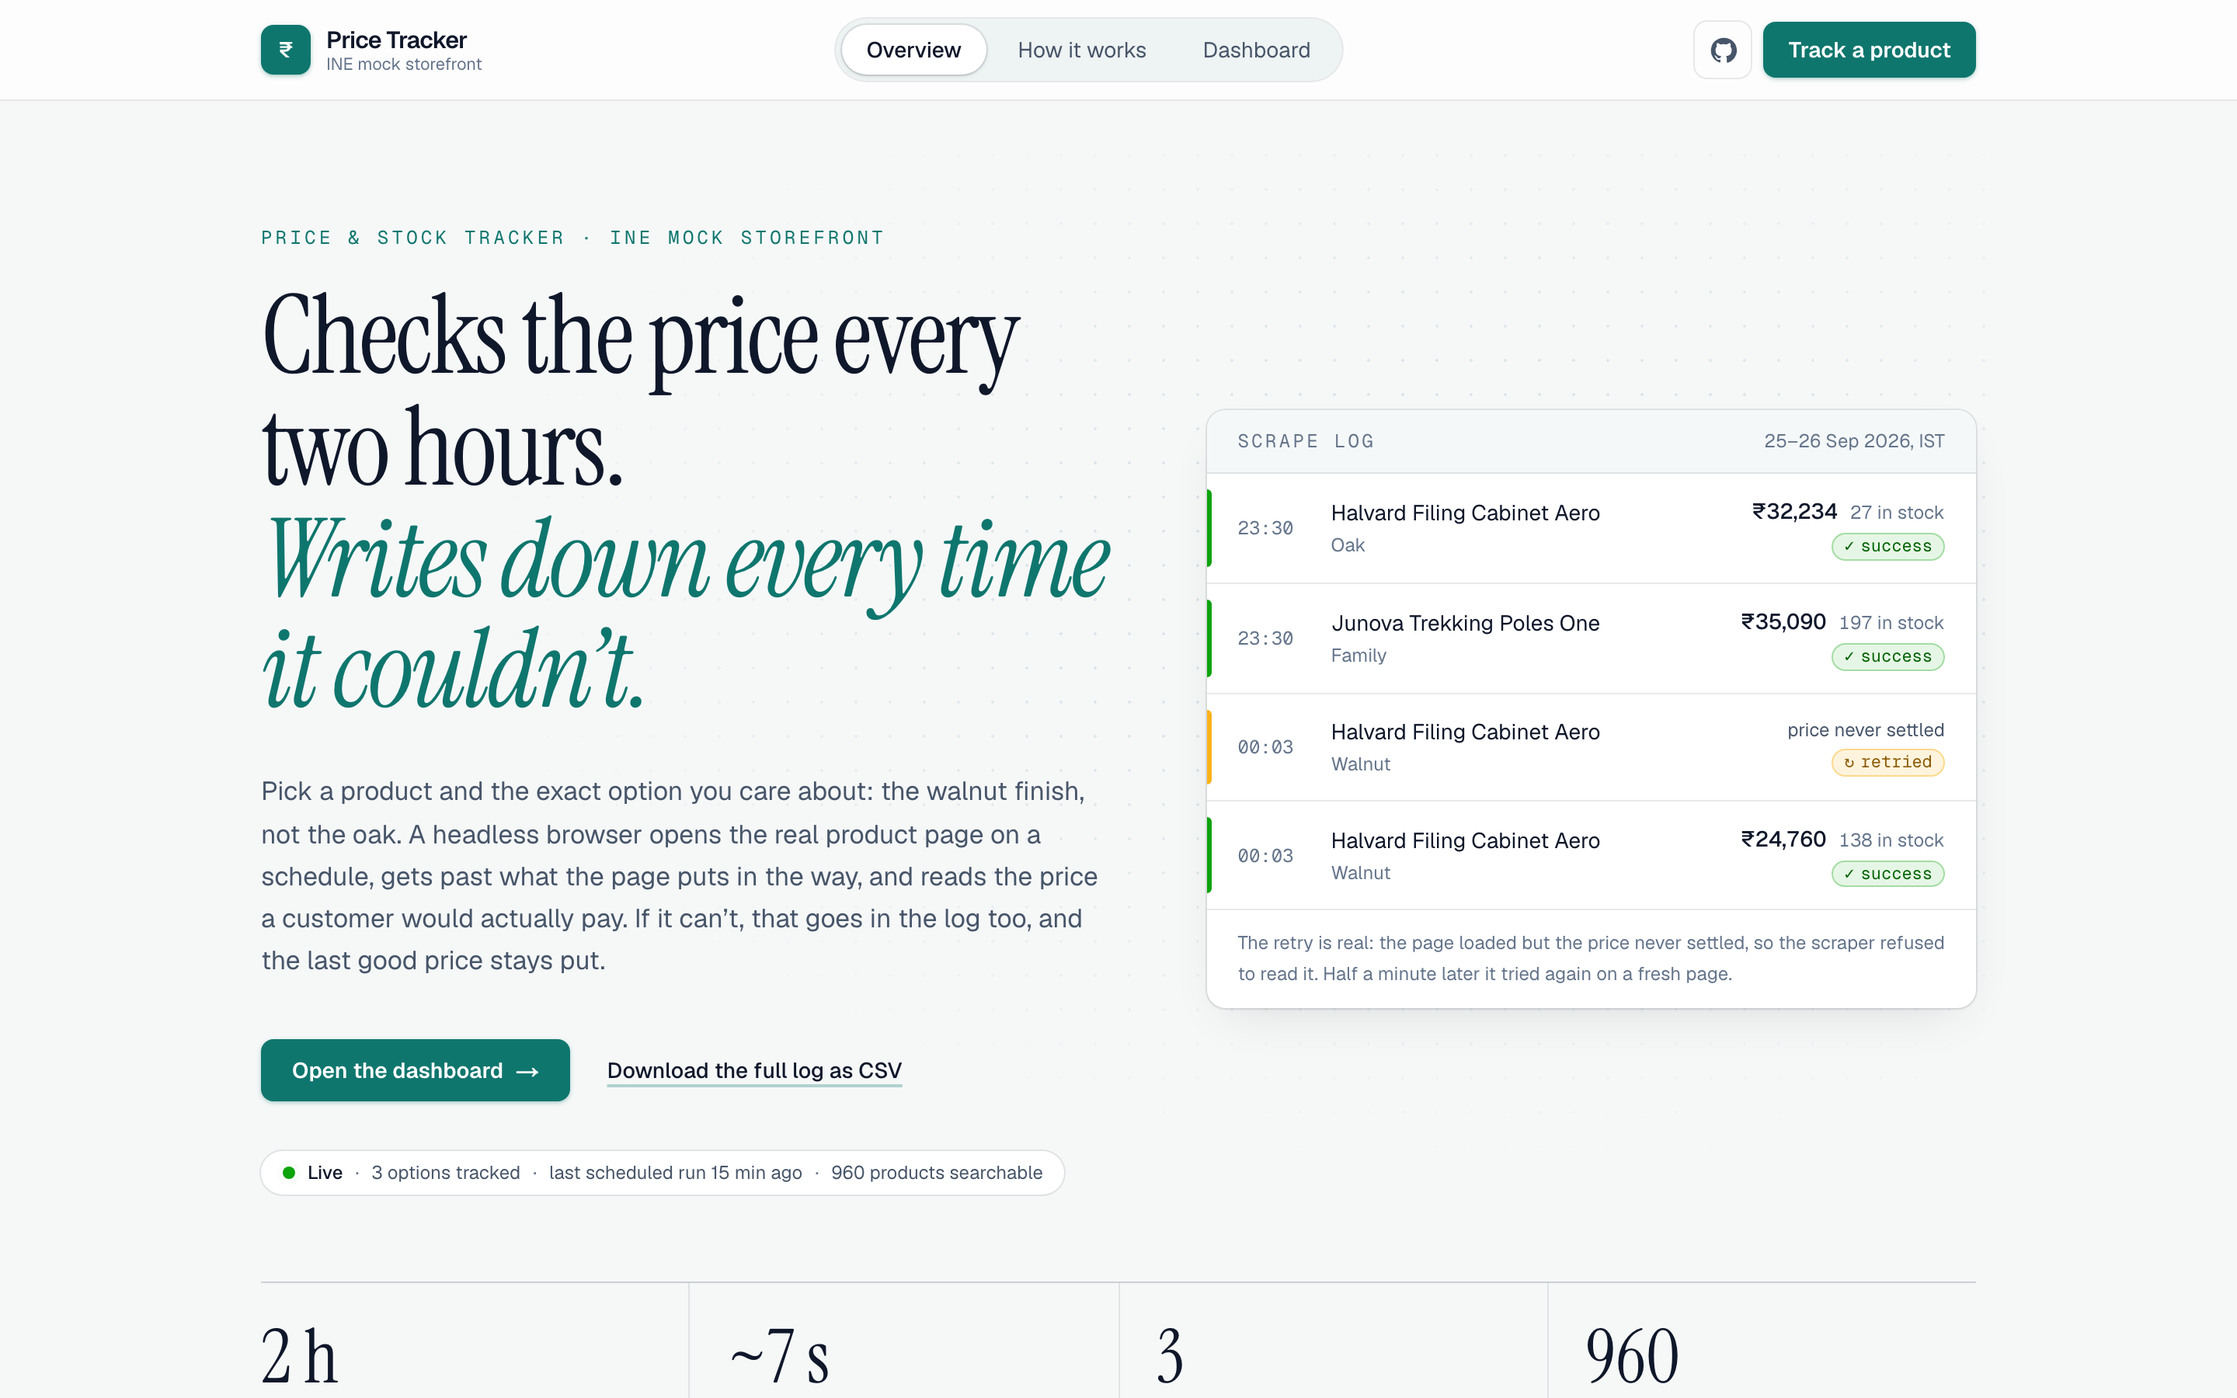
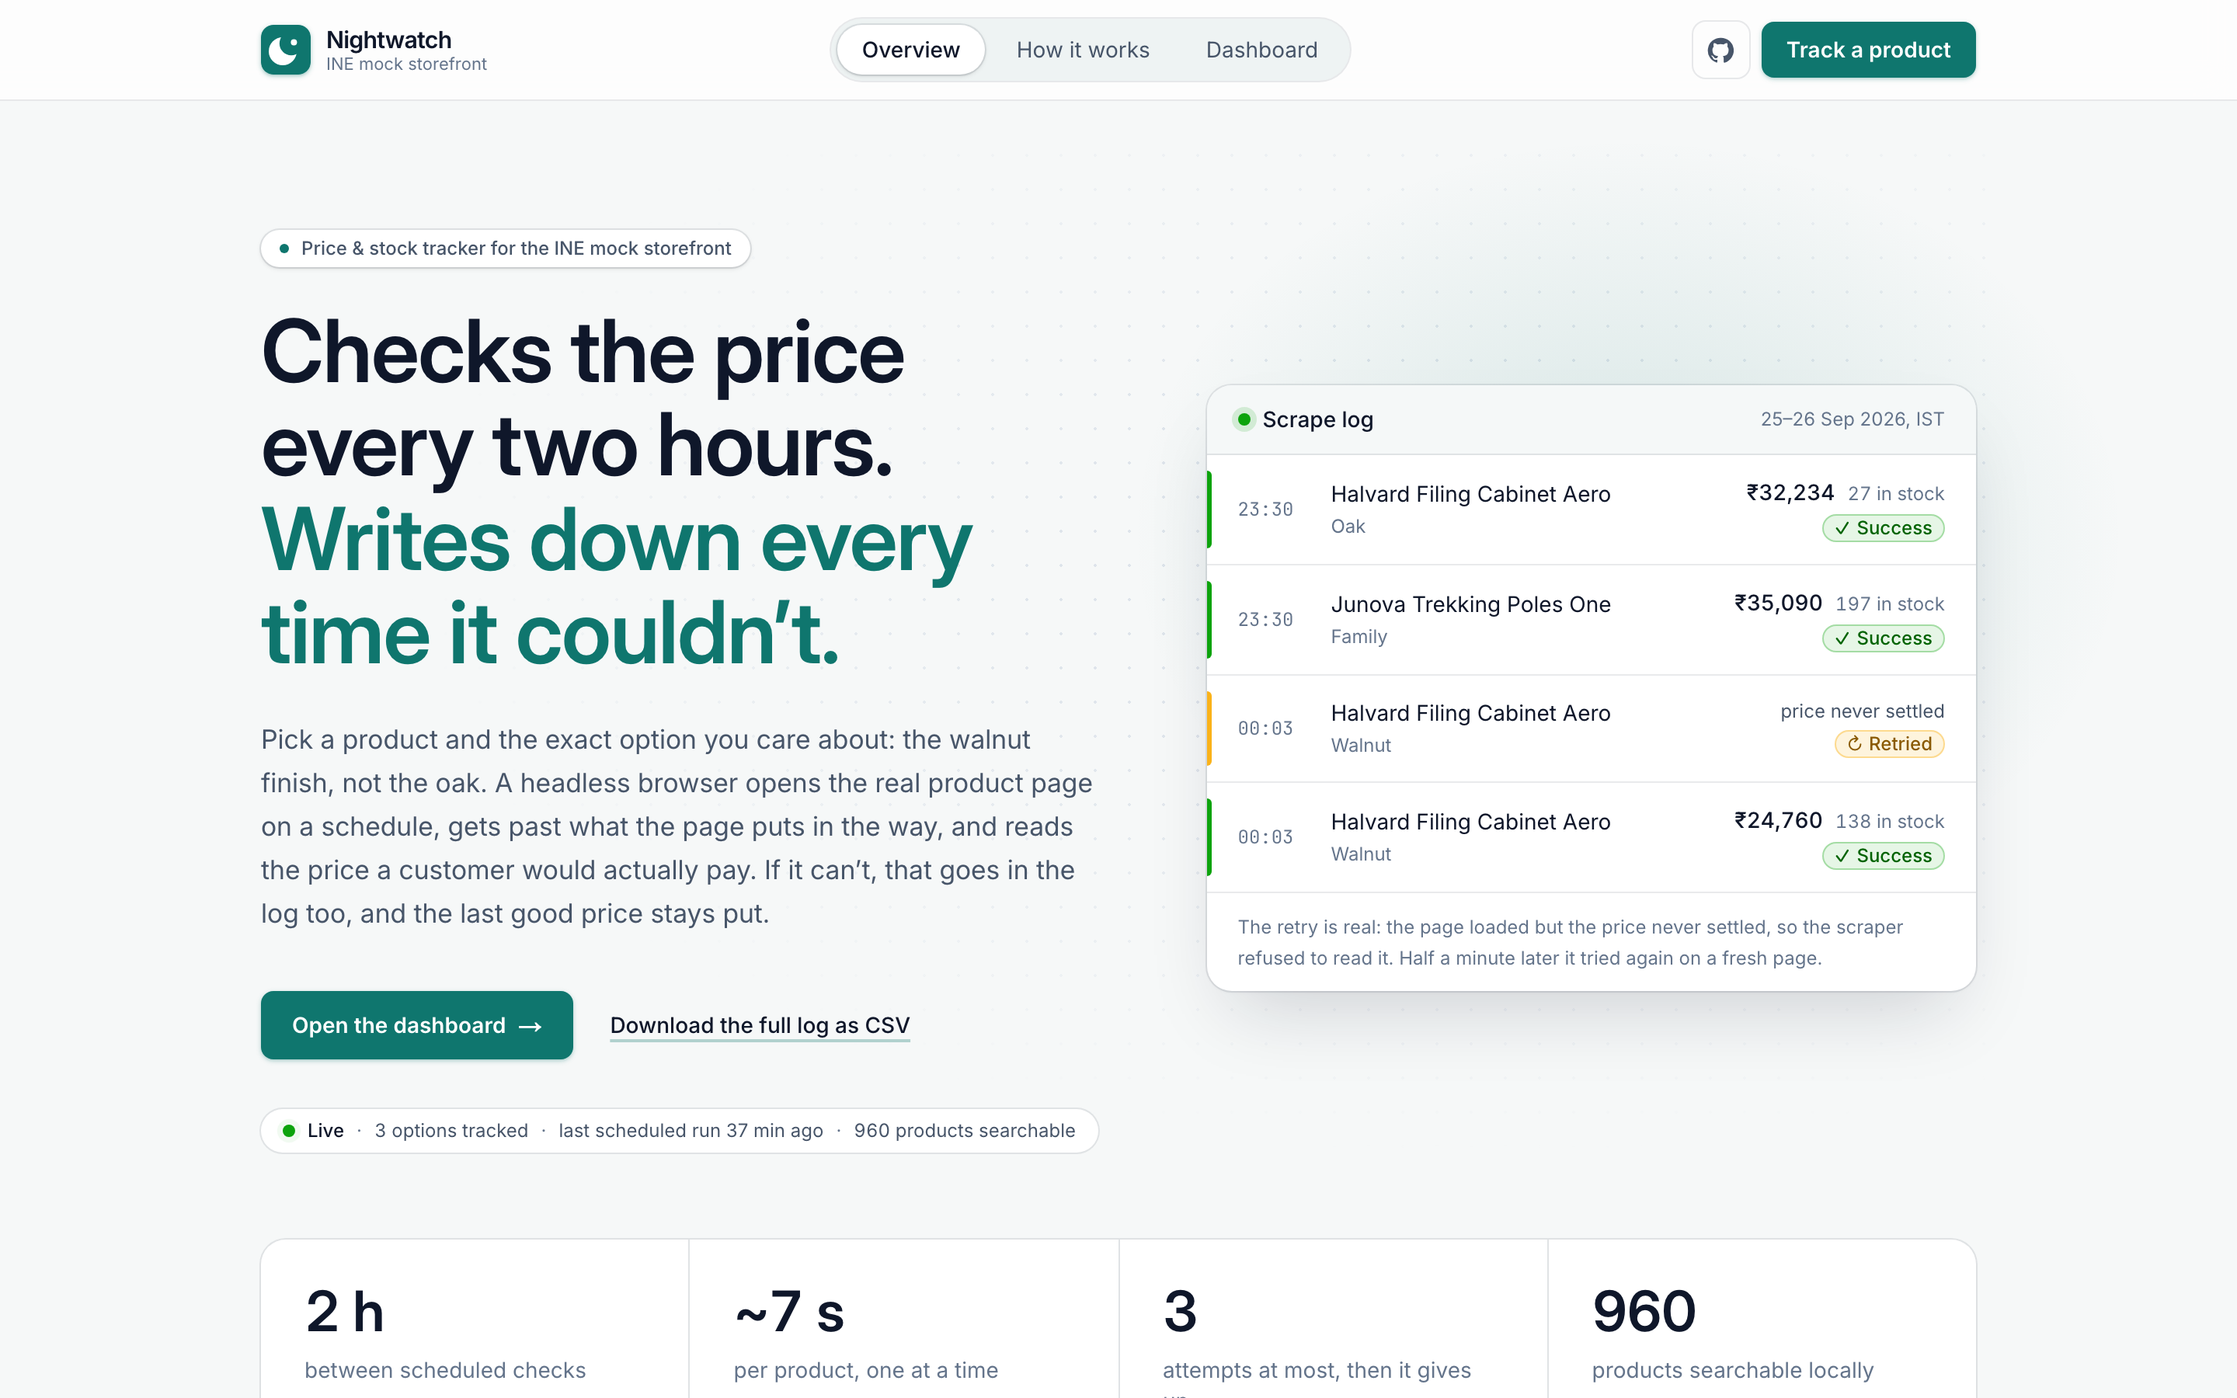
Update docs for 10-min keep-awake and refresh landing screenshot
- Warm-up ping every 10 min + UptimeRobot backup (README, api, architecture, decision)
- Design note: add the Render idle-sleep and SIGTERM mid-batch fixes
- Recapture landing.png from the live site
- Tick verified items in task.md

diff --git a/docs/task.md b/docs/task.md
@@ -54,9 +54,9 @@ Build in vertical slices instead of completing the frontend first:
 
 ## 5. Phase 2 — Supabase Database
 
-- [ ] Create Supabase project.
+- [x] Create Supabase project.
 - [x] Write `backend/db/schema.sql` from `database.md` §9 and run it.
-- [ ] Connect via **session pooler** string (`DATABASE_URL`).
+- [x] Connect via **session pooler** string (`DATABASE_URL`).
 - [x] Test success transaction (attempt + observation + current state).
 - [x] Test failed attempt leaves current state unchanged.
 - [x] Verify CHECK blocks price on non-success attempts.
@@ -136,20 +136,21 @@ Build in vertical slices instead of completing the frontend first:
 
 ### Render
 
-- [ ] Web service, root `backend/`.
-- [ ] Build: `npm install && npx playwright install --with-deps chromium`.
-- [ ] Start: `npm start`.
-- [ ] Env vars set.
-- [ ] `/api/health` OK; catalog synced 960/960.
-- [ ] Manual scrape succeeds on Render (check memory in Render metrics).
+- [x] Web service, root `backend/`.
+- [x] Build: `npm install && npx playwright install --with-deps chromium`.
+- [x] Start: `npm start`.
+- [x] Env vars set.
+- [x] `/api/health` OK; catalog synced 960/960.
+- [x] Manual scrape succeeds on Render (check memory in Render metrics).
 
 ### cron-job.org
 
-- [ ] Warm-up job: `GET /api/health` at `55 1-23/2 * * *` (5 min before each scrape).
-- [ ] Scrape job: `POST https://<render>.onrender.com/api/scrape/run`, header `Authorization: Bearer …`, `0 */2 * * *`.
+- [x] Warm-up job: `GET /api/health` every 10 minutes (was `55 1-23/2 * * *`; Render still slept every ~15 min, so it now never idles).
+- [x] Backup monitor: UptimeRobot on `/api/health` every 5 minutes with email alerts.
+- [x] Scrape job: `POST https://<render>.onrender.com/api/scrape/run`, header `Authorization: Bearer …`, `0 */2 * * *`.
 - [ ] Enable failure notifications on both jobs.
-- [ ] Trigger once manually; confirm `202` and rows in `scrape_runs` / `scrape_attempts`.
-- [ ] Track 2–3 products so unattended history starts accumulating.
+- [x] Trigger once manually; confirm `202` and rows in `scrape_runs` / `scrape_attempts`.
+- [x] Track 2–3 products so unattended history starts accumulating.
 
 ## 11. Phase 8 — Frontend (Next.js)
 
@@ -177,18 +178,18 @@ Read `frontend/AGENTS.md` first. Next.js 16 has breaking changes.
 
 ### Vercel
 
-- [ ] Import repo, root `frontend/`, Next.js preset.
-- [ ] Set `NEXT_PUBLIC_API_BASE_URL`.
-- [ ] Update backend `FRONTEND_ORIGIN`.
+- [x] Import repo, root `frontend/`, Next.js preset.
+- [x] Set `NEXT_PUBLIC_API_BASE_URL`.
+- [x] Update backend `FRONTEND_ORIGIN`.
 
 ## 12. Phase 9 — Production Validation
 
-- [ ] 2–3 products/options tracked.
-- [ ] Several scheduled (unattended) runs recorded.
+- [x] 2–3 products/options tracked.
+- [x] Several scheduled (unattended) runs recorded.
 - [ ] Chart/table data correct against the store in a browser.
-- [ ] Logs show retries/failures honestly.
-- [ ] CSV: failed/retried rows have blank price/stock; timestamps ISO UTC; opens in a spreadsheet.
-- [ ] Last successful state unchanged after a failure.
+- [x] Logs show retries/failures honestly.
+- [x] CSV: failed/retried rows have blank price/stock; timestamps ISO UTC; opens in a spreadsheet.
+- [x] Last successful state unchanged after a failure.
 
 ## 13. Phase 10 — Reliability Test Matrix
 
@@ -206,7 +207,7 @@ Read `frontend/AGENTS.md` first. Next.js 16 has breaking changes.
 | Option no longer offered | `failed` immediately (`OPTION_NOT_FOUND`) |
 | One target fails in batch | remaining targets continue |
 | Duplicate cron trigger in same slot | `200 duplicate`, no new run |
-| Backend asleep before scrape | warm-up ping wakes it; scrape call returns `202` within 30 s |
+| Backend asleep before scrape | kept awake by a 10-minute health ping; scrape call returns `202` within 30 s |
 | Scheduler stops firing | `schedulerStale = true`, dashboard banner, cron-job.org email |
 | Instance restarts mid-batch | stuck run closed as `failed` by next run |
 | Stock text in any of the 5 wordings | integer extracted correctly |
@@ -225,23 +226,23 @@ Read `frontend/AGENTS.md` first. Next.js 16 has breaking changes.
 ## 15. Phase 12 — Documentation
 
 - [x] Docs updated with store inspection results.
-- [ ] `decision.md` design note: add real implementation-time AI mistakes and fixes.
+- [x] `decision.md` design note: add real implementation-time AI mistakes and fixes.
 - [ ] README setup tested from a clean clone.
-- [ ] README: live URLs filled in.
+- [x] README: live URLs filled in.
 
 ## 16. Final Submission Checklist
 
-- [ ] Live Vercel URL works.
-- [ ] Render API reachable.
-- [ ] Supabase contains tracked data.
-- [ ] 2–3 tracked products/options exist.
-- [ ] History contains real unattended/scheduled records.
-- [ ] Scrape log contains failures/retries where they happened.
-- [ ] CSV export works.
+- [x] Live Vercel URL works.
+- [x] Render API reachable.
+- [x] Supabase contains tracked data.
+- [x] 2–3 tracked products/options exist.
+- [x] History contains real unattended/scheduled records.
+- [x] Scrape log contains failures/retries where they happened.
+- [x] CSV export works.
 - [ ] Headed demo video recorded (2–4 min).
-- [ ] Public GitHub repository accessible.
-- [ ] README contains setup, schedule, env vars.
-- [ ] Design note explains reliability, trade-offs, AI mistakes/corrections.
+- [x] Public GitHub repository accessible.
+- [x] README contains setup, schedule, env vars.
+- [x] Design note explains reliability, trade-offs, AI mistakes/corrections.
 - [ ] Resume PDF provided.
 
 ## 17. Priority Order Under Time Pressure

diff --git a/docs/decision.md b/docs/decision.md
@@ -33,7 +33,7 @@
 | "Don't retry selector misses / malformed extraction" | Misses are mostly transient here (late content, dropped hover events, rotating classes), and the brief says to recover when a page shifts | Retry with fresh page + fresh manifest; `STRUCTURE_CHANGED` if persistent |
 | Frontend documented as React + Vite (`VITE_API_BASE_URL`) | Repo uses Next.js 16 | Docs switched to Next.js, `NEXT_PUBLIC_API_BASE_URL` |
 | `SUPABASE_DATABASE_URL` direct connection | Supabase direct connection is IPv6-only; Render can't reach it | Use the session pooler connection string |
-| Scheduler endpoint may run synchronously | cron-job.org times out ~30 s; cold start + Playwright is longer | Always `202` + background batch, plus a warm-up ping 5 min earlier for the cold start |
+| Scheduler endpoint may run synchronously | cron-job.org times out ~30 s; cold start + Playwright is longer | Always `202` + background batch, with the instance kept warm (see Decision 005) |
 | No detection of missed/stuck runs | Brief says "never silently stop" | `schedulerStale` in health + dashboard banner; stuck runs closed as `failed` |
 
 Implementation-time corrections (found by driving the real page):
@@ -51,6 +51,8 @@ Implementation-time corrections (found by driving the real page):
 | Prisma handles timestamps transparently | With a non-UTC database session, `@prisma/adapter-pg` shifted `timestamptz` reads/writes by the session offset (+05:30 locally) | Pin every connection to `TimeZone=UTC` via the pool's startup options |
 | The page's manifest is available once the heading renders | Sometimes still in flight, so the scraper had no class map | Explicitly await the page's manifest response |
 | "Panel ready but price selector missing" means the page shifted | Live run: the manifest-classed element *was* present but never settled; logged as `STRUCTURE_CHANGED` | Report it as `PRICE_NOT_READY` with opacity/text diagnostics; keep `STRUCTURE_CHANGED` for a truly missing element |
+| One warm-up ping 5 min before each scrape keeps Render awake long enough | Render logs showed `SIGTERM` ~15 min after every start, and cron-job.org reported the scrape job as `Failed (output too large)` | Health ping every 10 min (plus UptimeRobot every 5 min) so the instance never idles; the scrape job now gets `202 Accepted` |
+| Shutting down on `SIGTERM` can close the DB pool immediately | A deploy during a batch crashed it with `Cannot use a pool after calling end on the pool` | On `SIGTERM`, wait up to 45 s (`SHUTDOWN_DRAIN_MS`) for the in-flight scrape before closing the pool |
 | Prices use ASCII digits | First live scrapes on Render: the store rendered `₹３６,５５６` in fullwidth digits; the strict parser rejected it (correctly) and only the retry succeeded | Fold fullwidth (NFKC) and native-script digits to ASCII before parsing; still reject anything that isn't exactly one amount |
 
 ---
@@ -89,9 +91,9 @@ Implementation-time corrections (found by driving the real page):
 
 ## Decision 005 — External scheduler with async trigger
 
-**Decision:** cron-job.org calls `POST /api/scrape/run` every 2 hours with a bearer secret. The endpoint returns `202` and runs the batch in the background. A second job pings `GET /api/health` 5 minutes earlier to wake the instance.
+**Decision:** cron-job.org calls `POST /api/scrape/run` every 2 hours with a bearer secret. The endpoint returns `202` and runs the batch in the background. A second job pings `GET /api/health` every 10 minutes so the instance never sleeps, and an UptimeRobot monitor pings it every 5 minutes as a backup that also emails on downtime.
 
-**Why:** Free Render instances sleep and cold-start in ~50 s. cron-job.org times out after ~30 s. Without the warm-up, the scrape request can time out before the app even starts. The brief says to "keep the instance warm if needed".
+**Why:** Free Render instances sleep after ~15 min idle and cold-start in ~50 s. cron-job.org times out after ~30 s. The first version pinged once, 5 minutes before each scrape, but production logs showed the instance being stopped every ~15 minutes, so it is now kept awake continuously. The brief says to "keep the instance warm if needed".
 
 **Trade-off:** External dependency. Mitigated by the secret, idempotent `run_key`, and the visible run history.
 

diff --git a/README.md b/README.md
@@ -192,14 +192,15 @@ POST https://price-tracker-api-rqd5.onrender.com/api/scrape/run
 Authorization: Bearer <SCRAPE_TRIGGER_SECRET>
 ```
 
-Two cron-job.org jobs handle Render's free-tier sleep:
+Two cron-job.org jobs keep the service running on Render's free tier, plus an UptimeRobot monitor as a backup:
 
 | Job | Schedule (UTC) | Request |
 |---|---|---|
-| Warm-up | `55 1-23/2 * * *` (5 min before each scrape) | `GET /api/health` |
-| Scrape | `0 */2 * * *` | `POST /api/scrape/run` with bearer secret |
+| Warm-up (cron-job.org) | every 10 minutes | `GET /api/health` |
+| Scrape (cron-job.org) | `0 */2 * * *` | `POST /api/scrape/run` with bearer secret |
+| Uptime monitor (UptimeRobot) | every 5 minutes | `GET /api/health`, emails on downtime |
 
-- A sleeping Render instance takes ~50 s to wake, which is longer than cron-job.org's ~30 s timeout. The warm-up ping wakes it first, and the instance stays awake for ~15 minutes.
+- Render's free tier stops the instance after ~15 minutes without traffic, and a cold start takes ~50 s, longer than cron-job.org's ~30 s timeout. A health ping every 10 minutes keeps the instance awake all the time, so the scrape call always lands on a warm instance and a batch is never cut off by an idle shutdown.
 - The scrape endpoint responds `202 Accepted` immediately and runs the batch in the background, because a Playwright batch also takes longer than 30 s.
 - Runs are keyed by their 2-hour slot, so a duplicate trigger cannot create a duplicate run.
 
@@ -207,7 +208,8 @@ Two cron-job.org jobs handle Render's free-tier sleep:
 
 - `GET /api/health` reports the last scheduled run and `schedulerStale: true` when no cron run has started for more than 2 h 30 min. The dashboard shows a warning banner in that case.
 - A run left `running` by a crash or restart is closed as `failed` at the start of the next run.
-- cron-job.org failure notifications are enabled for both jobs.
+- cron-job.org failure notifications are enabled for both jobs, and UptimeRobot emails if `/api/health` stops answering.
+- On a deploy or restart (`SIGTERM`), the server waits up to 45 s (`SHUTDOWN_DRAIN_MS`) for an in-flight scrape to finish before closing the database pool.
 
 Do not rely on `setInterval()` inside the web server as the scheduler — the free instance sleeps.
 
@@ -304,7 +306,7 @@ Render free instances have 512 MB RAM, so the scraper runs one browser and one t
 Warm-up job:
 
 - URL: `https://price-tracker-api-rqd5.onrender.com/api/health`, method `GET`
-- Schedule: 5 minutes before each scrape (`55 1-23/2 * * *`)
+- Schedule: every 10 minutes (keeps the free instance from sleeping)
 
 Scrape job:
 
@@ -313,6 +315,8 @@ Scrape job:
 - Schedule: every 2 hours (`0 */2 * * *`)
 
 Enable failure notifications on both jobs.
+
+Optional backup: an UptimeRobot HTTP(s) monitor on `/api/health` every 5 minutes, with email alerts.
 
 ## Headed Mode
 

diff --git a/docs/architecture.md b/docs/architecture.md
@@ -290,7 +290,8 @@ One target's failure must not abort the batch. Each target gets a fresh browser 
 ## 7. Scheduler and Free-Tier Behavior
 
 ```text
-cron-job.org  :55 odd hours  GET /api/health          → wakes Render (cold start ~50 s)
+cron-job.org  every 10 min   GET /api/health          → keeps Render awake (no idle sleep)
+UptimeRobot   every 5 min    GET /api/health          → backup ping + downtime email
 cron-job.org  :00 even hours POST /api/scrape/run     → instance already warm
    ↓ 202 Accepted immediately
 background batch → Playwright → Supabase
@@ -298,8 +299,9 @@ background batch → Playwright → Supabase
 
 Constraints that shape this:
 
-- **cron-job.org timeout (~30 s):** shorter than both a cold start and a batch. The warm-up ping 5 minutes earlier absorbs the cold start (the brief: "keep the instance warm if needed"). The scrape endpoint then responds `202` and runs in the background.
-- **Render free sleeps after ~15 min idle:** the warm-up + scrape requests keep it awake long enough for the batch to finish.
+- **cron-job.org timeout (~30 s):** shorter than both a cold start and a batch. The instance is kept warm (the brief: "keep the instance warm if needed"), so the scrape call never waits on a cold start. The scrape endpoint then responds `202` and runs in the background.
+- **Render free sleeps after ~15 min idle:** a single warm-up ping 5 minutes before each scrape was the first design. In production the logs showed the instance being stopped (`SIGTERM`) ~15 minutes after every start, so it now gets a health ping every 10 minutes and never goes idle. One always-on free service fits within Render's monthly free hours.
+- **Restarts mid-batch:** on `SIGTERM` the server stops accepting requests and waits up to 45 s for an in-flight scrape before closing the database pool. A batch that still gets cut off is closed as `failed` by the next run.
 - **512 MB RAM:** one Chromium, sequential targets, new context per target, browser always closed in `finally`. Block images/fonts to save memory.
 - **Supabase direct connection is IPv6-only; Render has no outbound IPv6:** connect via the Supabase **session pooler** string.
 

diff --git a/docs/api.md b/docs/api.md
@@ -60,7 +60,7 @@ Error:
 
 ### GET `/api/health`
 
-Deployment health check. Also the cron-job.org warm-up target 5 minutes before each scrape. `schedulerStale` is `true` when no cron run has started in the last 2 h 30 min; the dashboard shows a warning when it is.
+Deployment health check. Also the keep-awake target: cron-job.org pings it every 10 minutes and UptimeRobot every 5. `schedulerStale` is `true` when no cron run has started in the last 2 h 30 min; the dashboard shows a warning when it is.
 
 ```json
 {
